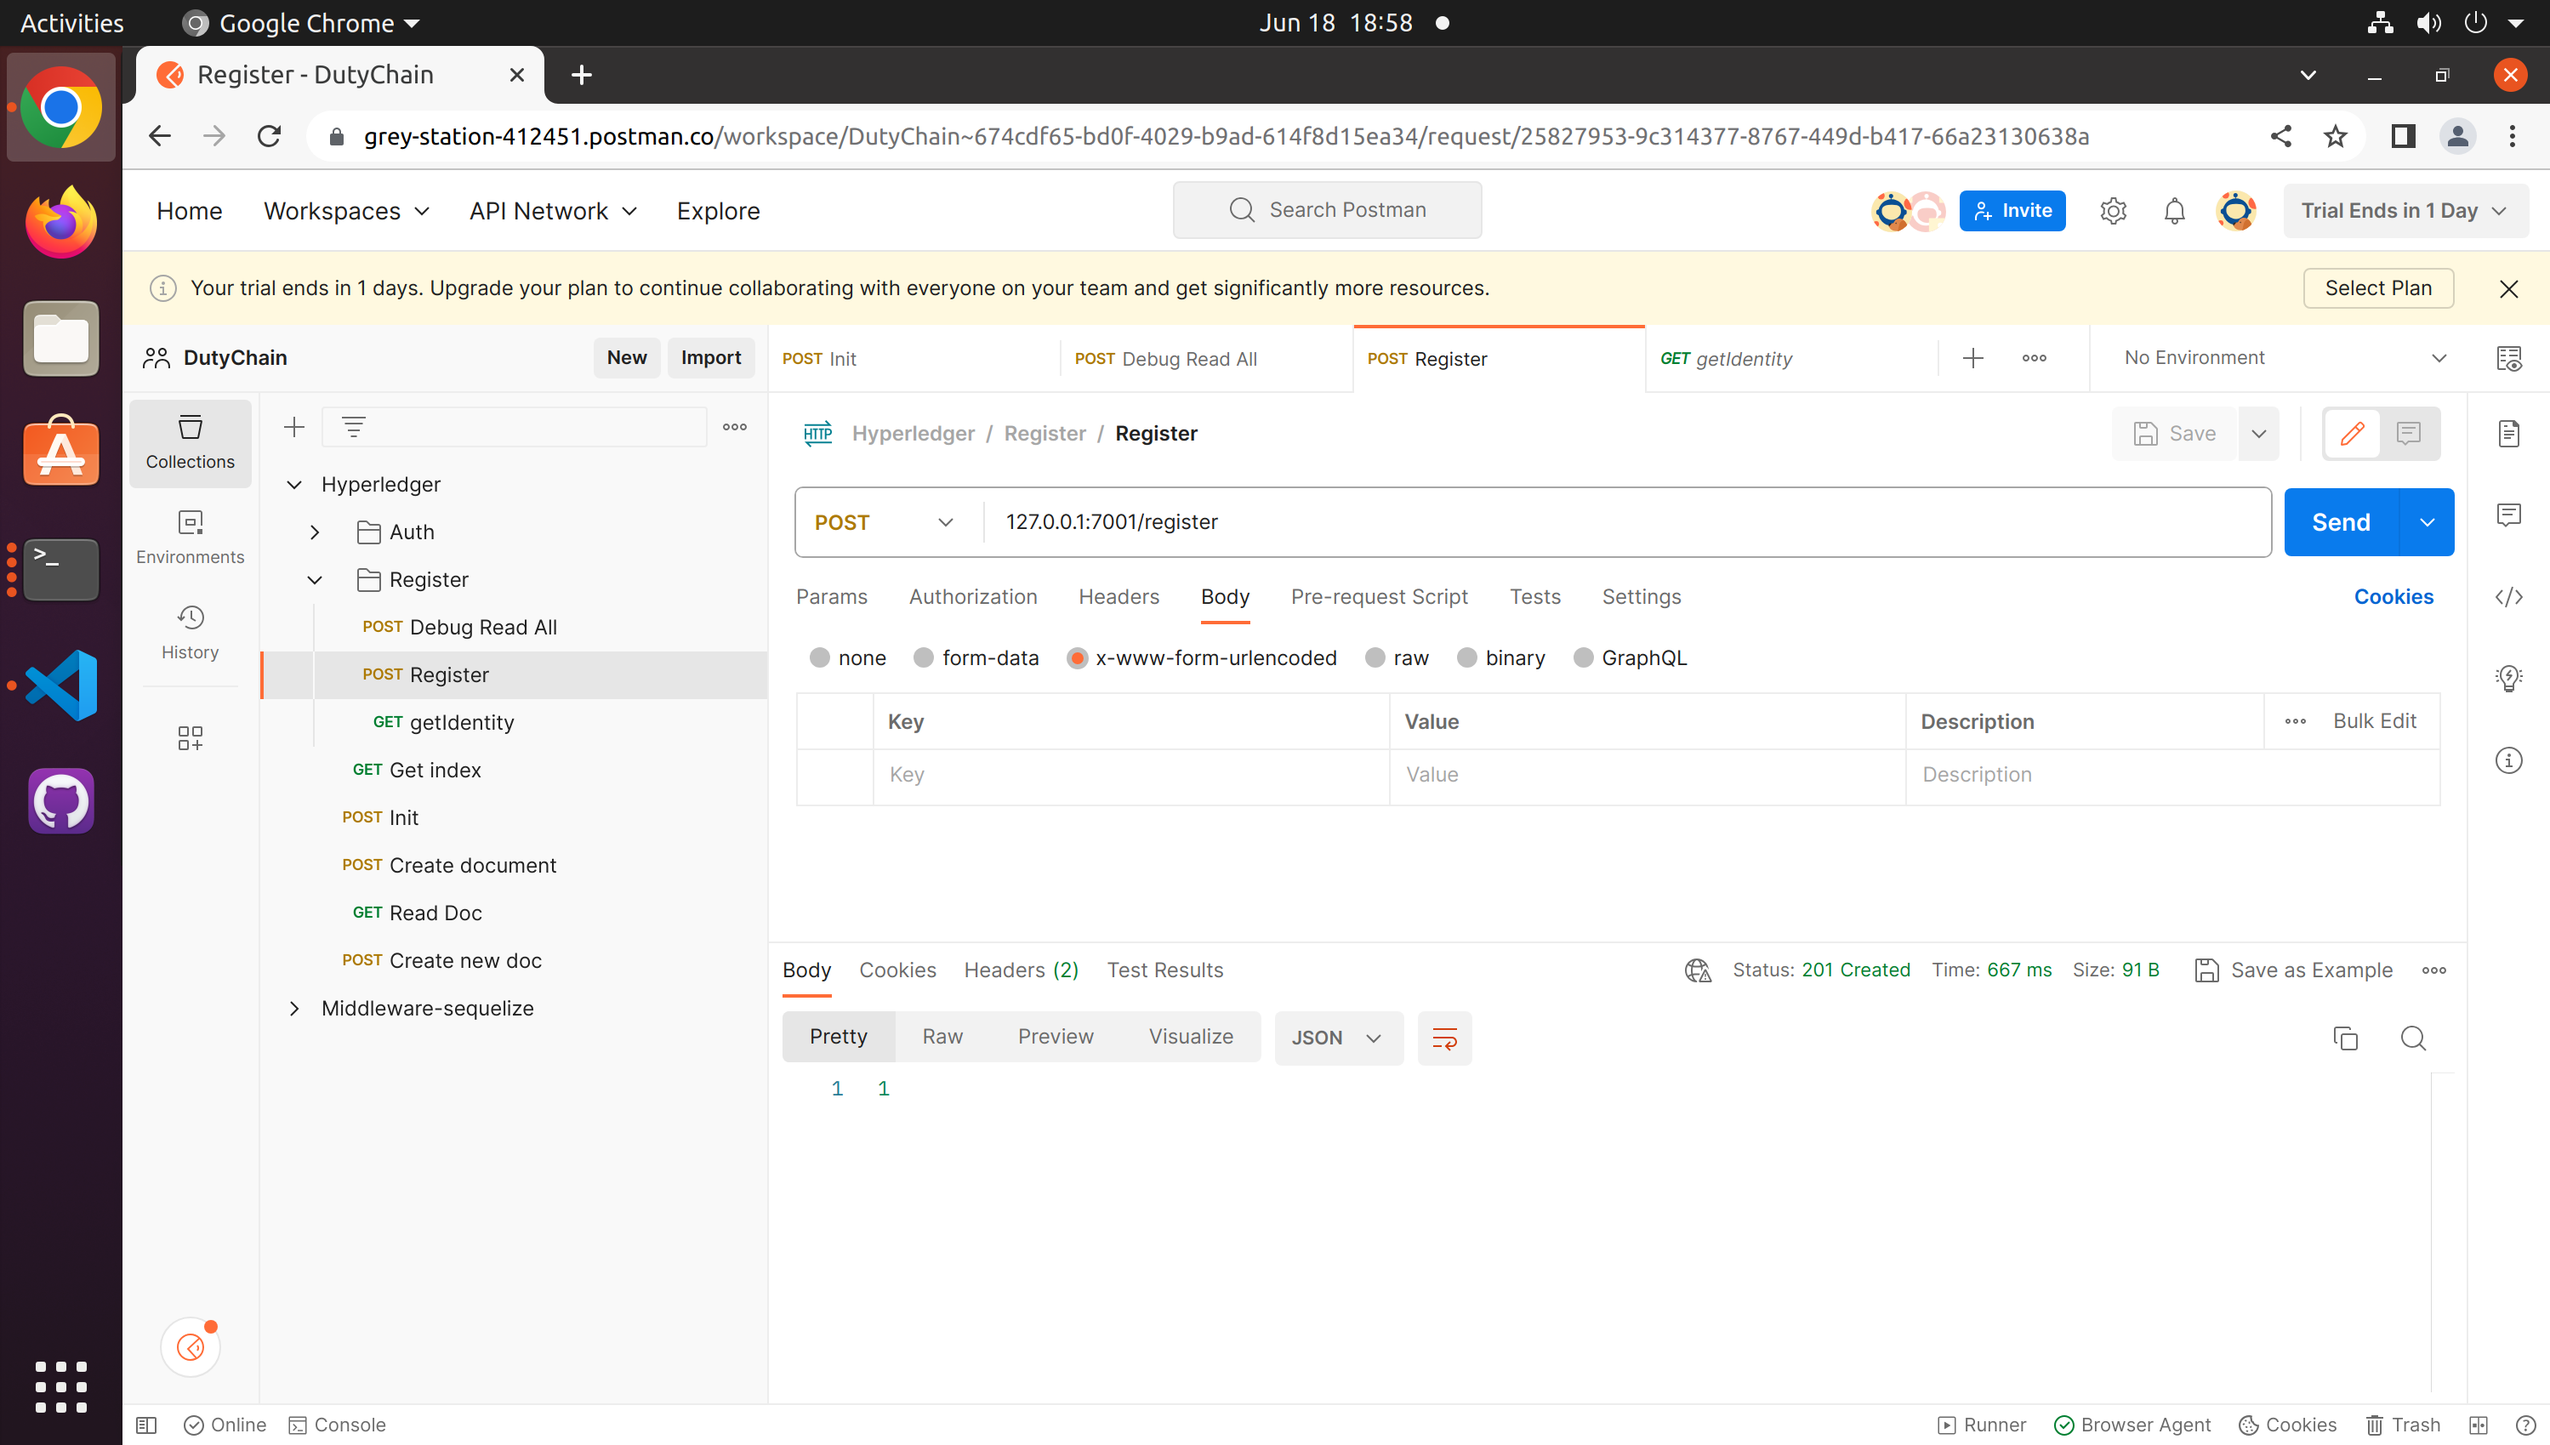
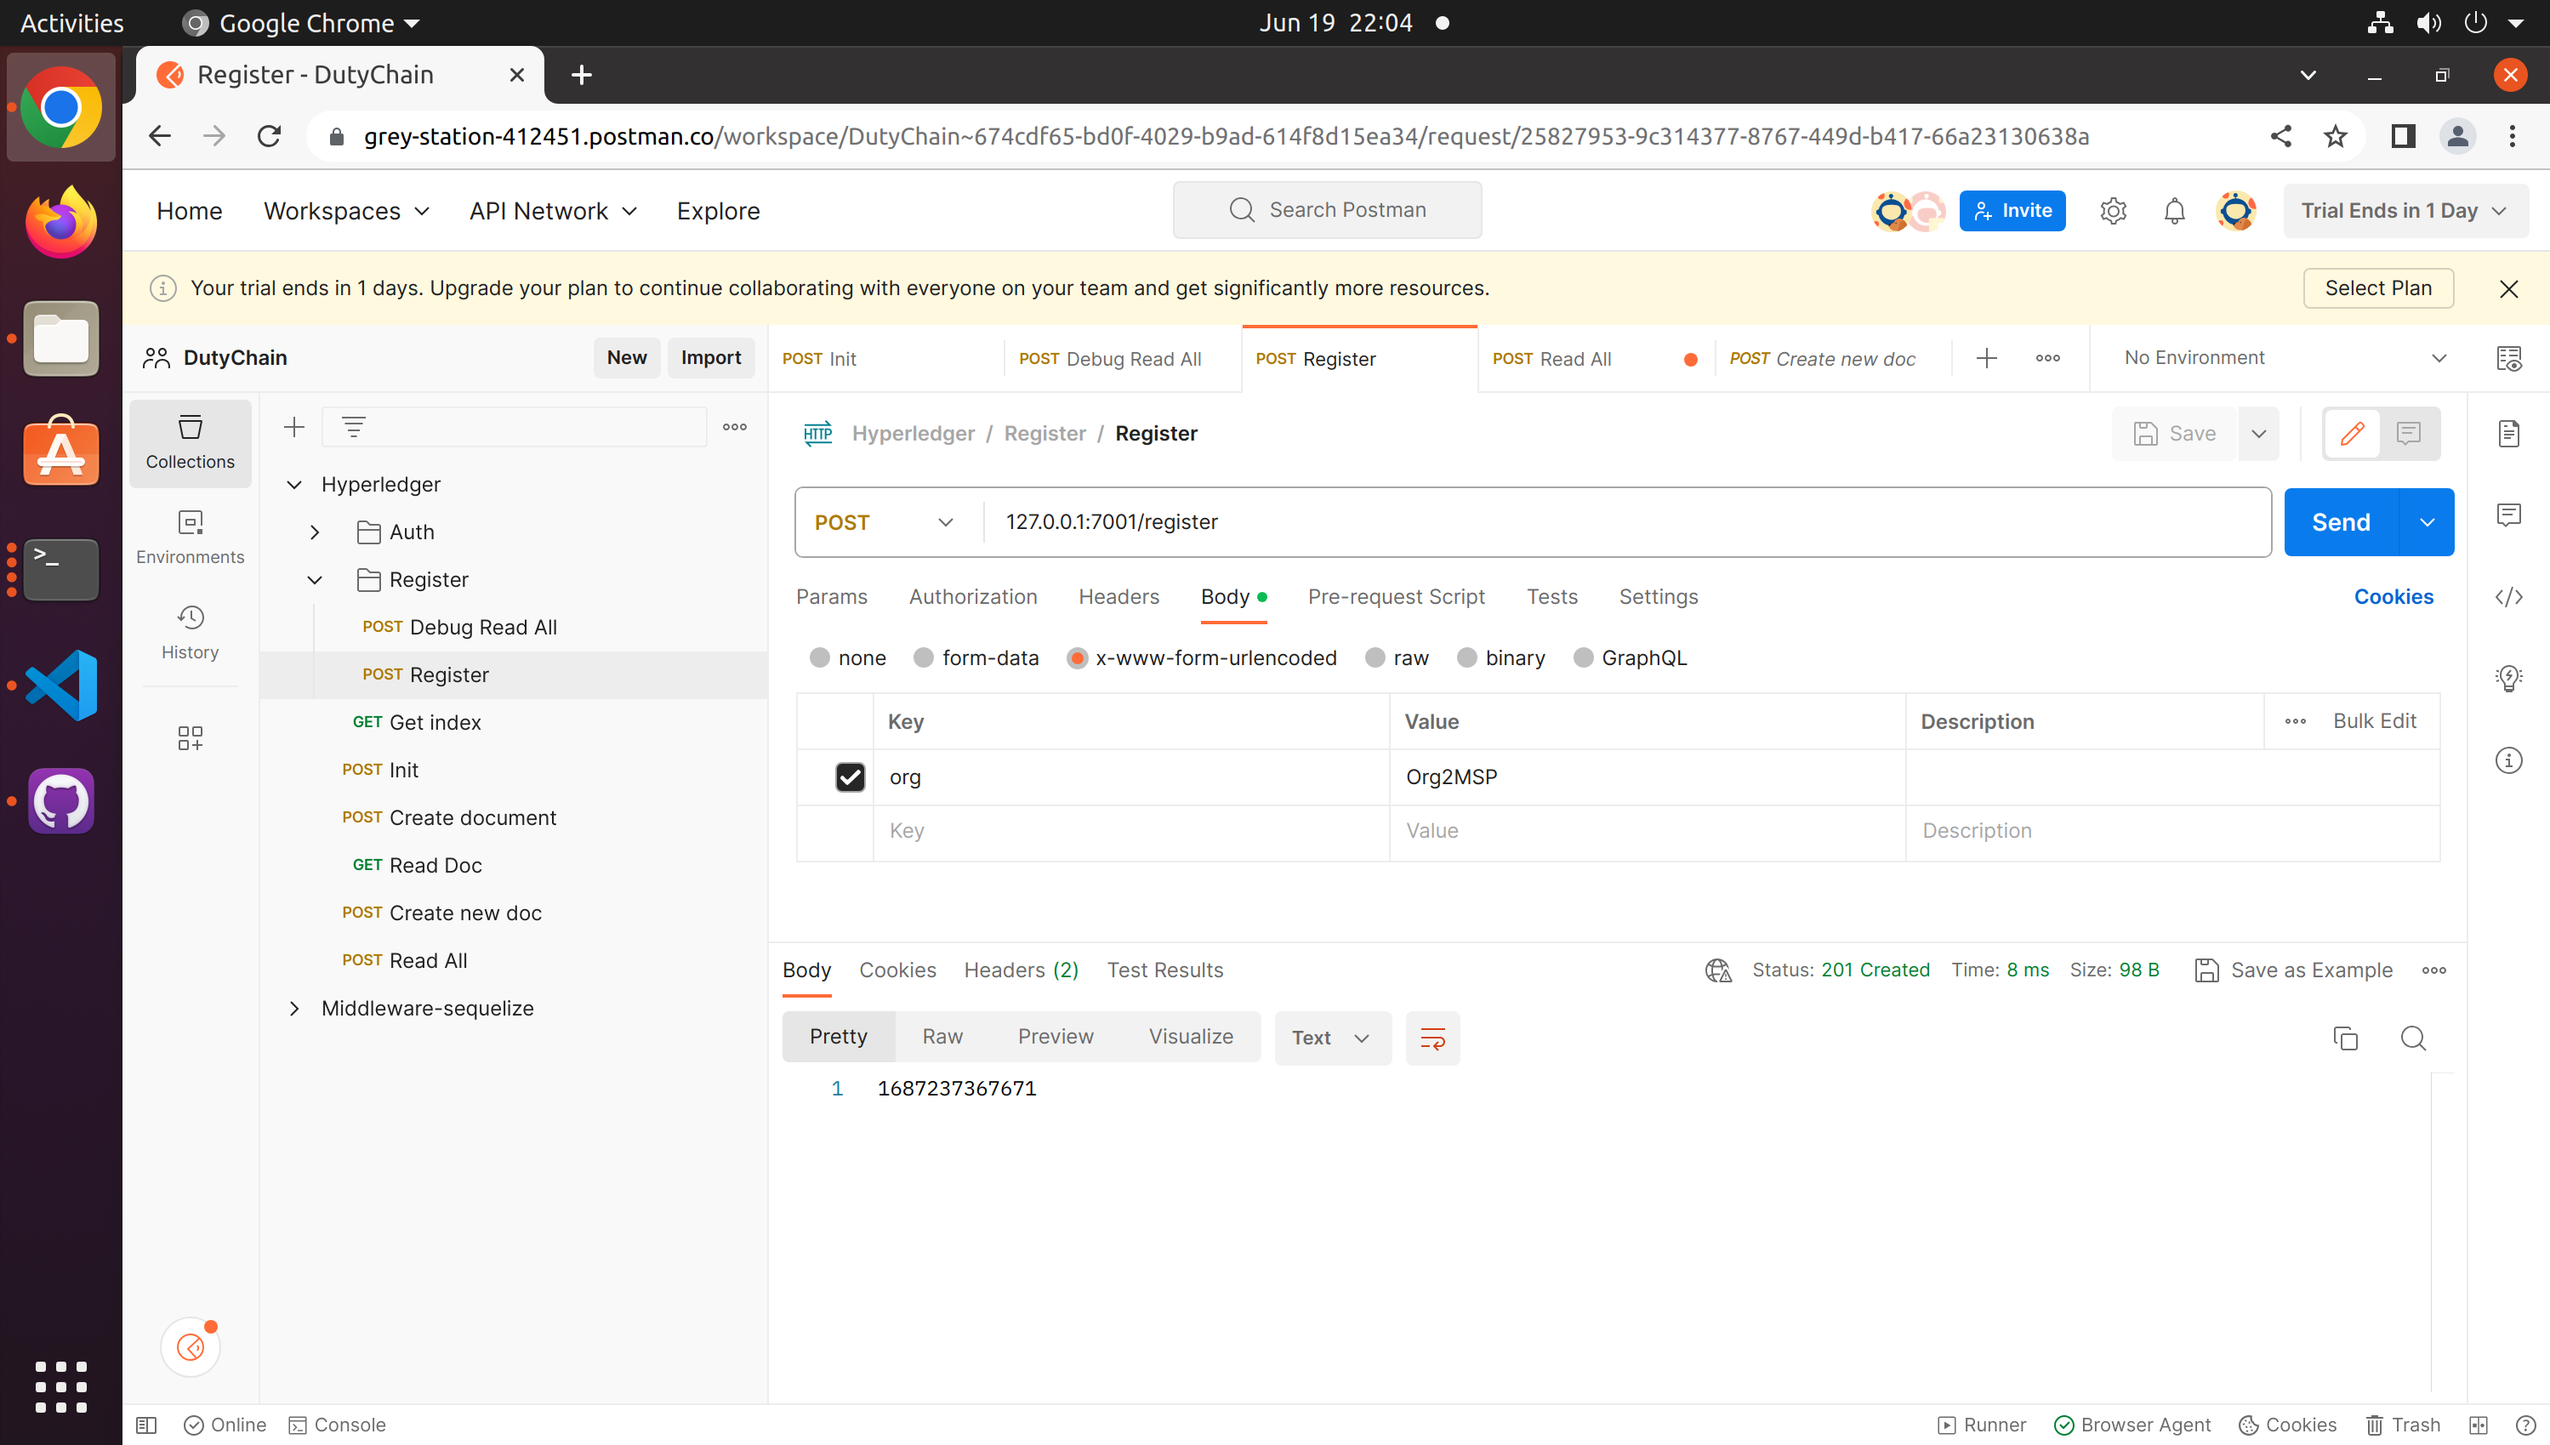
Update README.md
Update README.md

diff --git a/README.md b/README.md
@@ -65,7 +65,8 @@ $ curl --header "Content-Type: application/json" --request POST localhost:7001/d
 ```
 <img src="img/debug.png">
 
-### debugReadAll <B>read all in using admin identity</B>
+### debugReadAll 
+<B>read all in using admin identity</B>
 <B> for debug usage only, don't call this</B>
 Get all assets in the network, no identity(wallet) is required.
 
@@ -78,21 +79,26 @@ curl --header "Content-Type: application/json" --request POST localhost:7001/deb
 <img src="img/debugReadAll.png">
 
 ### Register
-create a <B>{walletID, wallet}</B> pair, save the wallet path to mongoDB with key walletID, return walletID 
+create an indentity, require to input <B>{org}</B>, return walletID 
 
 ```bash
 curl --header "Content-Type: application/json" --request POST localhost:7001/register/
 ```
 <img src="img/register.png">
 
-### Get Identity
-given walletId, return wallet path 
 
-```bash
-curl --header "Content-Type: application/json" --request GET localhost:7001/register/
-```
-<img src="img/getIdentity.png">
 
+
+### Create
+create an asset in hyperledger, input <B>{id, type, data, walletId, org}</B> in JSON format, return the result that added in blockchain.
+
+<img src="img/create.png">
+
+
+### Read
+create an asset in hyperledger, input <B>{id, walletId, org}</B> in JSON format, return the result that added in blockchain.
+
+<
 ### npm scripts
 
 - Use `npm run lint` to check code style.
